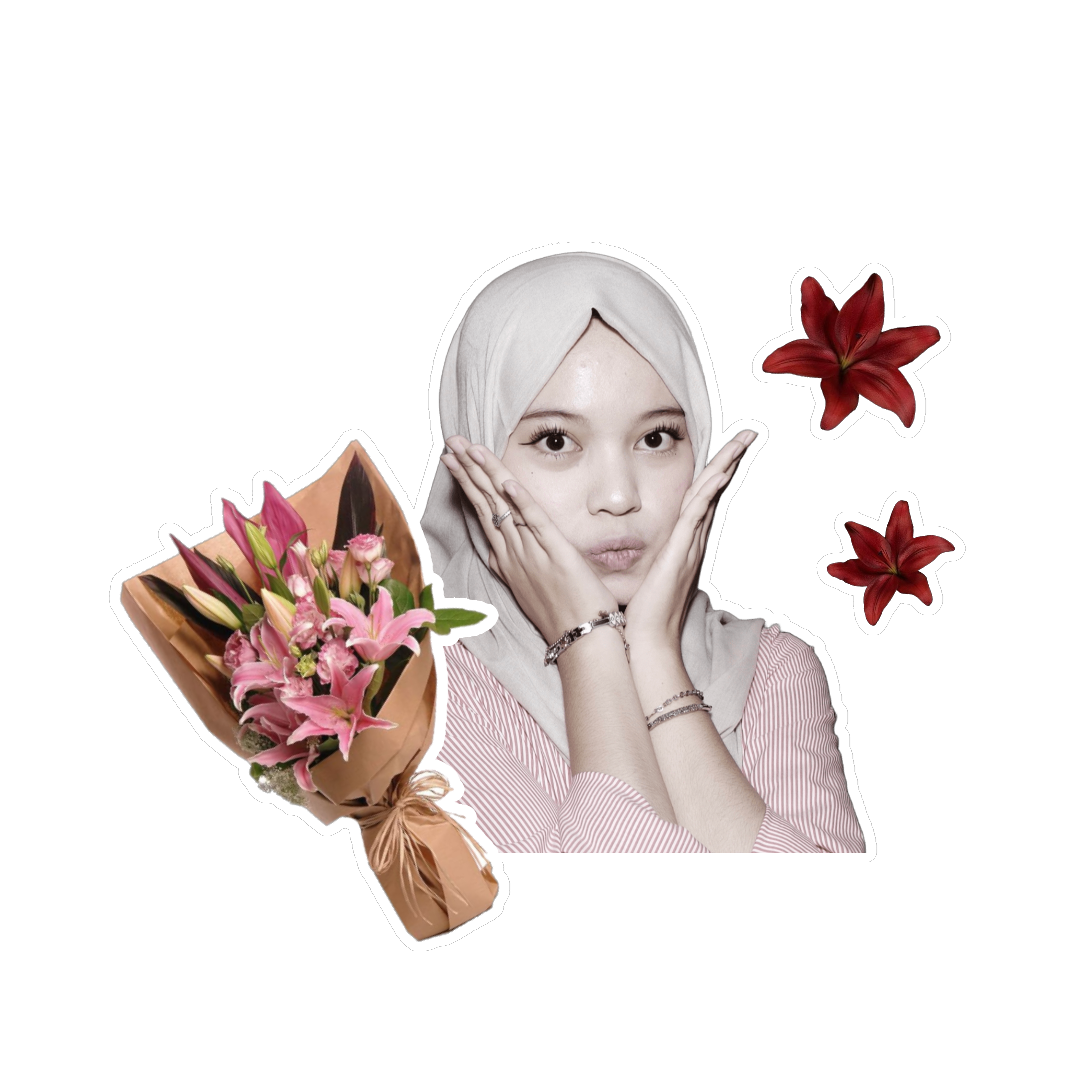
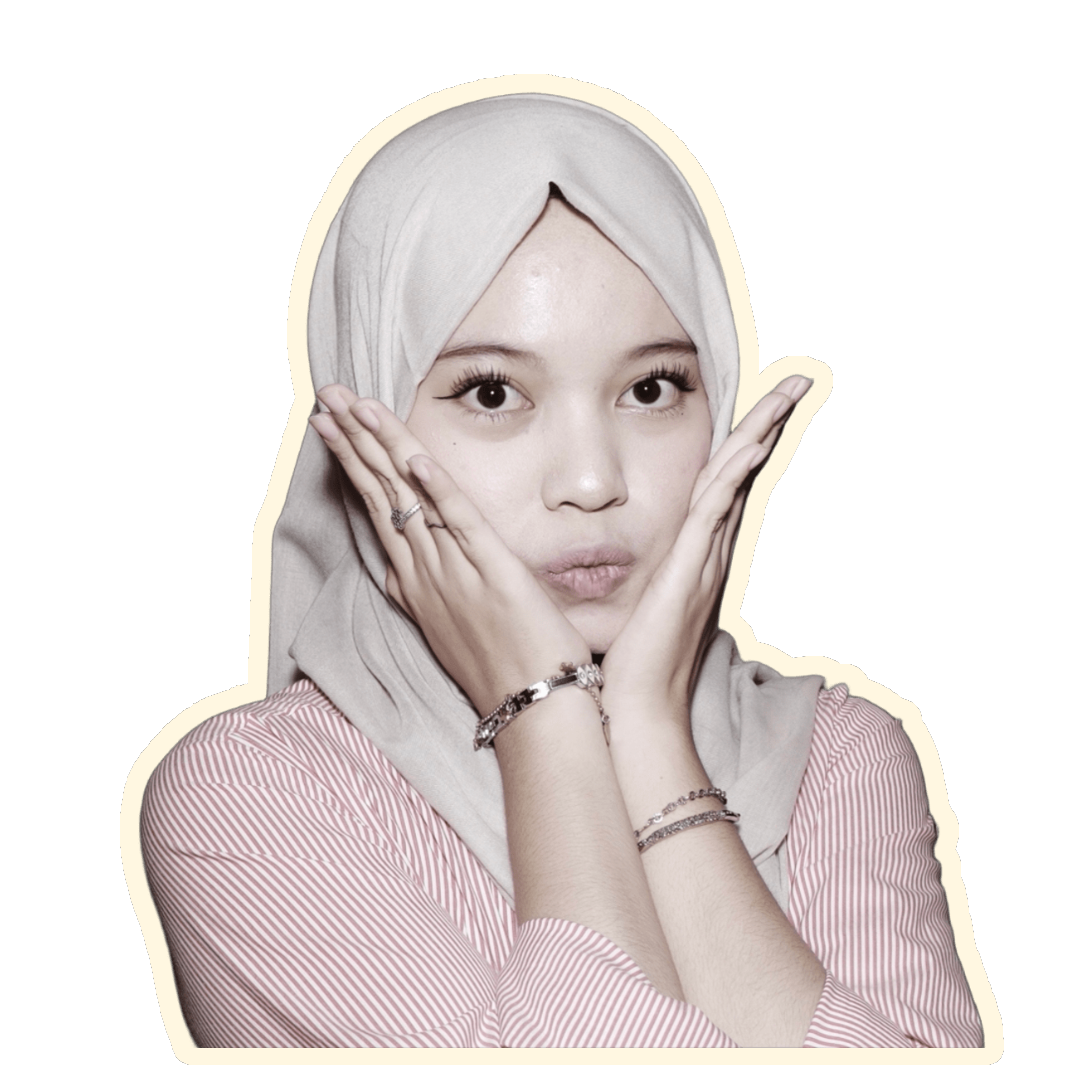
Update hero image and remove deleted vintage images

diff --git a/index.html b/index.html
@@ -206,21 +206,9 @@
                     <svg width="50" height="50" viewBox="0 0 24 24" fill="none" stroke="#f1c40f" stroke-width="2" stroke-linecap="round" stroke-linejoin="round"><polygon points="12 2 15.09 8.26 22 9.27 17 14.14 18.18 21.02 12 17.77 5.82 21.02 7 14.14 2 9.27 8.91 8.26 12 2"></polygon></svg>
                 </div>
 
-                <div class="decor sticker" style="top: 800px; left: 450px; transform: rotate(-10deg);">
-                    <img src="vintage_sunflower.jpg" alt="Vintage Sunflower" style="width: 250px;">
-                </div>
-
-                <div class="decor sticker" style="top: 250px; left: 100px; transform: rotate(15deg);">
-                    <img src="vintage_butterfly.jpg" alt="Vintage Butterfly" style="width: 250px;">
-                </div>
-
                 <!-- Pinterest-inspired additions -->
                 <div class="decor sticker" style="top: 1000px; left: 200px; transform: rotate(-5deg);">
                     <img src="ripped_paper.jpg" alt="Vintage Ripped Paper" style="width: 300px;">
-                </div>
-
-                <div class="decor sticker" style="top: 550px; left: 1200px; transform: rotate(25deg);">
-                    <img src="vintage_ticket.jpg" alt="Vintage Ticket" style="width: 200px;">
                 </div>
             </div>
             
